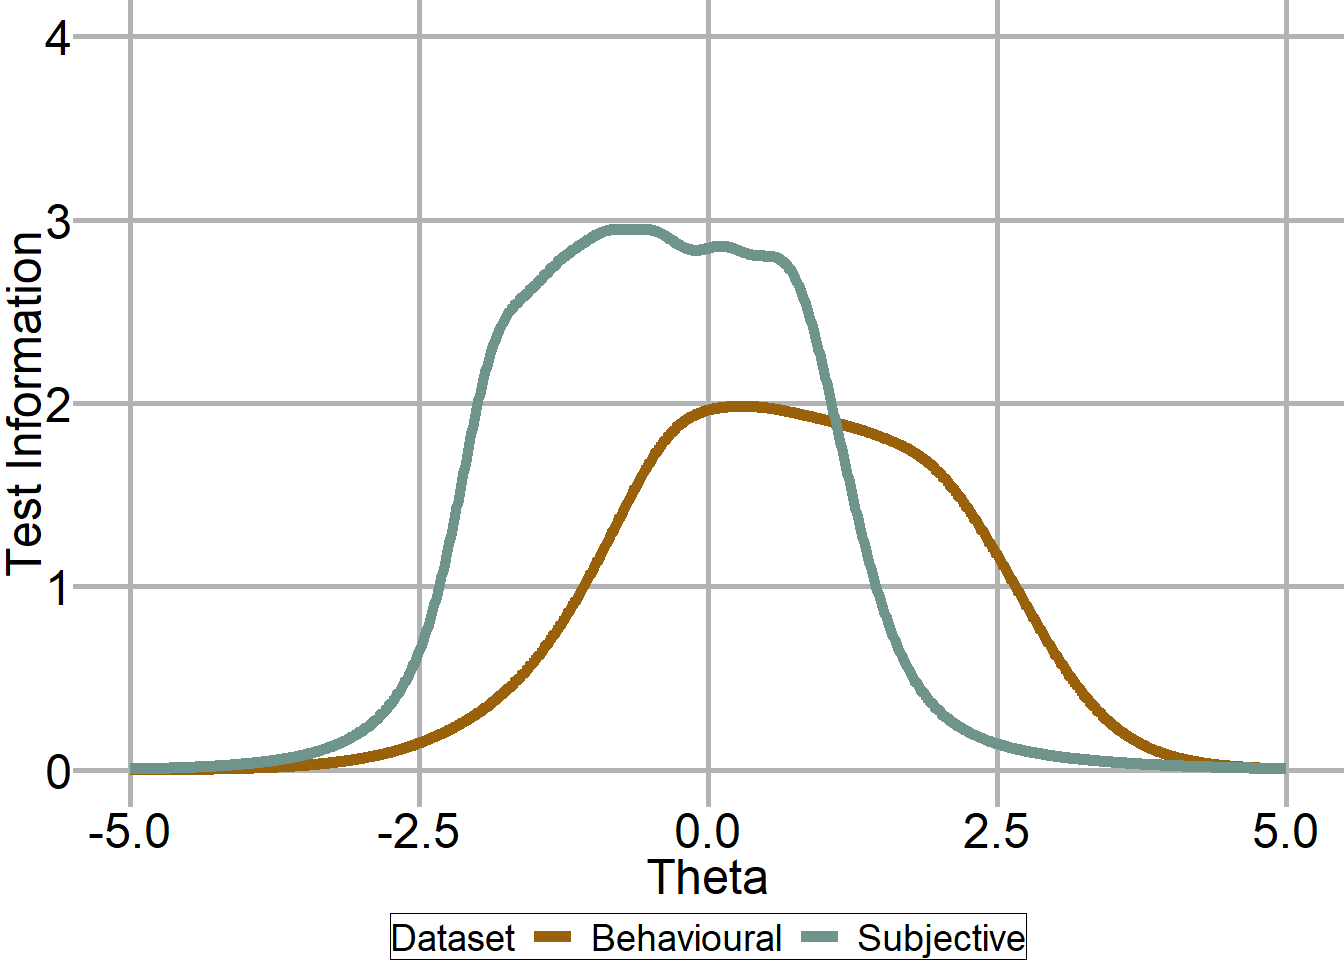
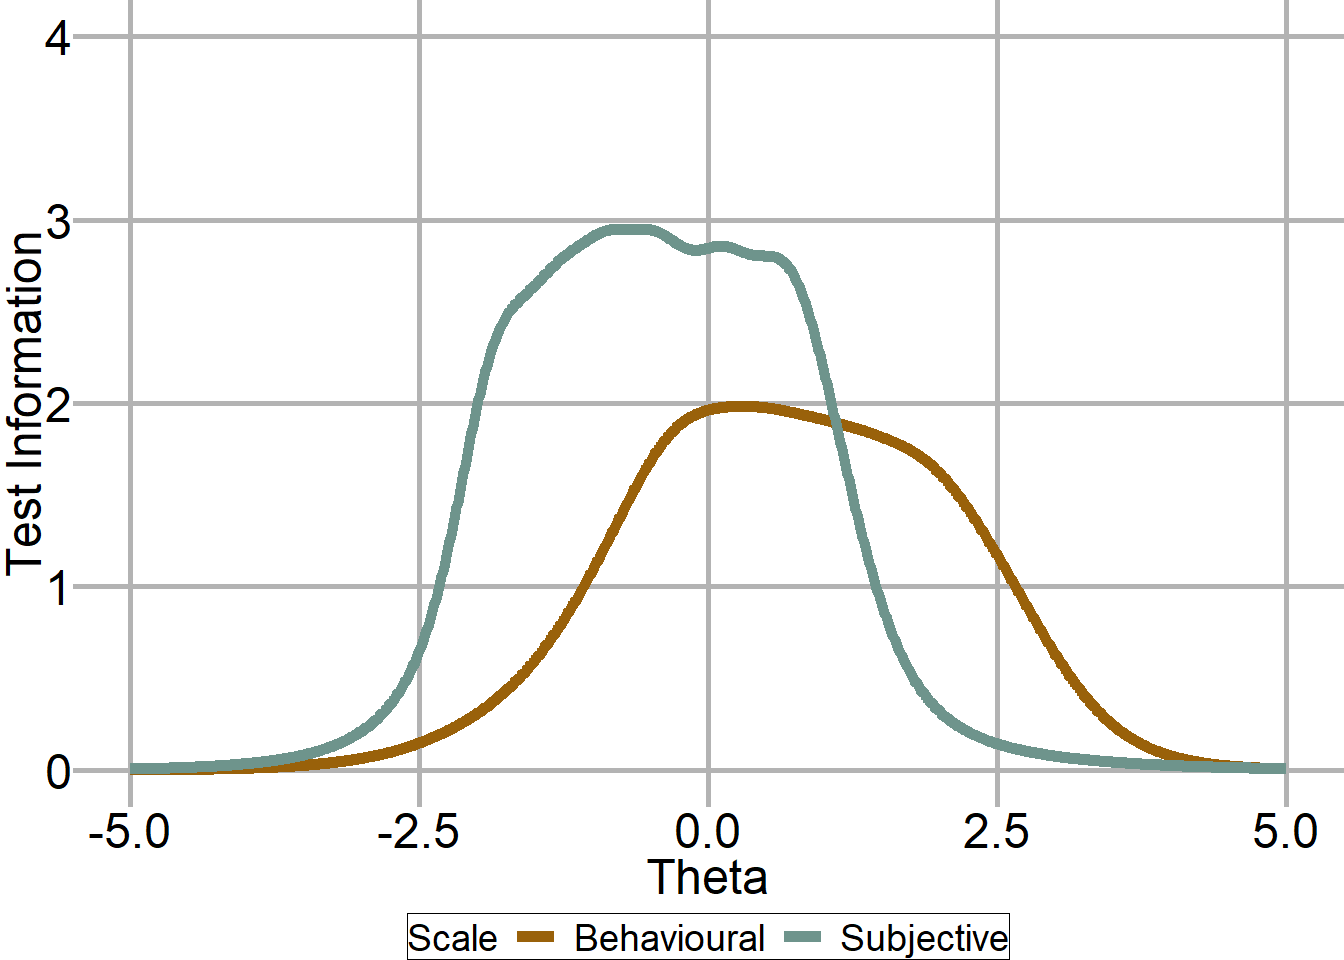
Did not upload properly

Changed region(s): [[0.2812, 0.9375, 0.7812, 1.0]]

diff --git a/Analysis_AI.html b/Analysis_AI.html
@@ -238,7 +238,7 @@ window.Quarto = {
 </div>
 </div>
 </div>
-<p>Here as well all the factor loadings have improved, with AI_1_7 and AI_1_1 still below .7.</p>
+<p>Here as well all the factor loadings have improved, with AI_1_7, AI_1_3 and AI_1_1 still below .7.</p>
 <p>This in general make sense: Item AI_1_1 may be problematic because not everywhere they have art classes. Additionally certain classes may have art history classes (e.g., Italy) while other may have art classes where students create art. Item AI_1_7 asks how much once own family is interested in art, which as discussed elsewhere does not seem to be as strong as other items in describing the interest of the person.</p>
 </section>
 </section>
